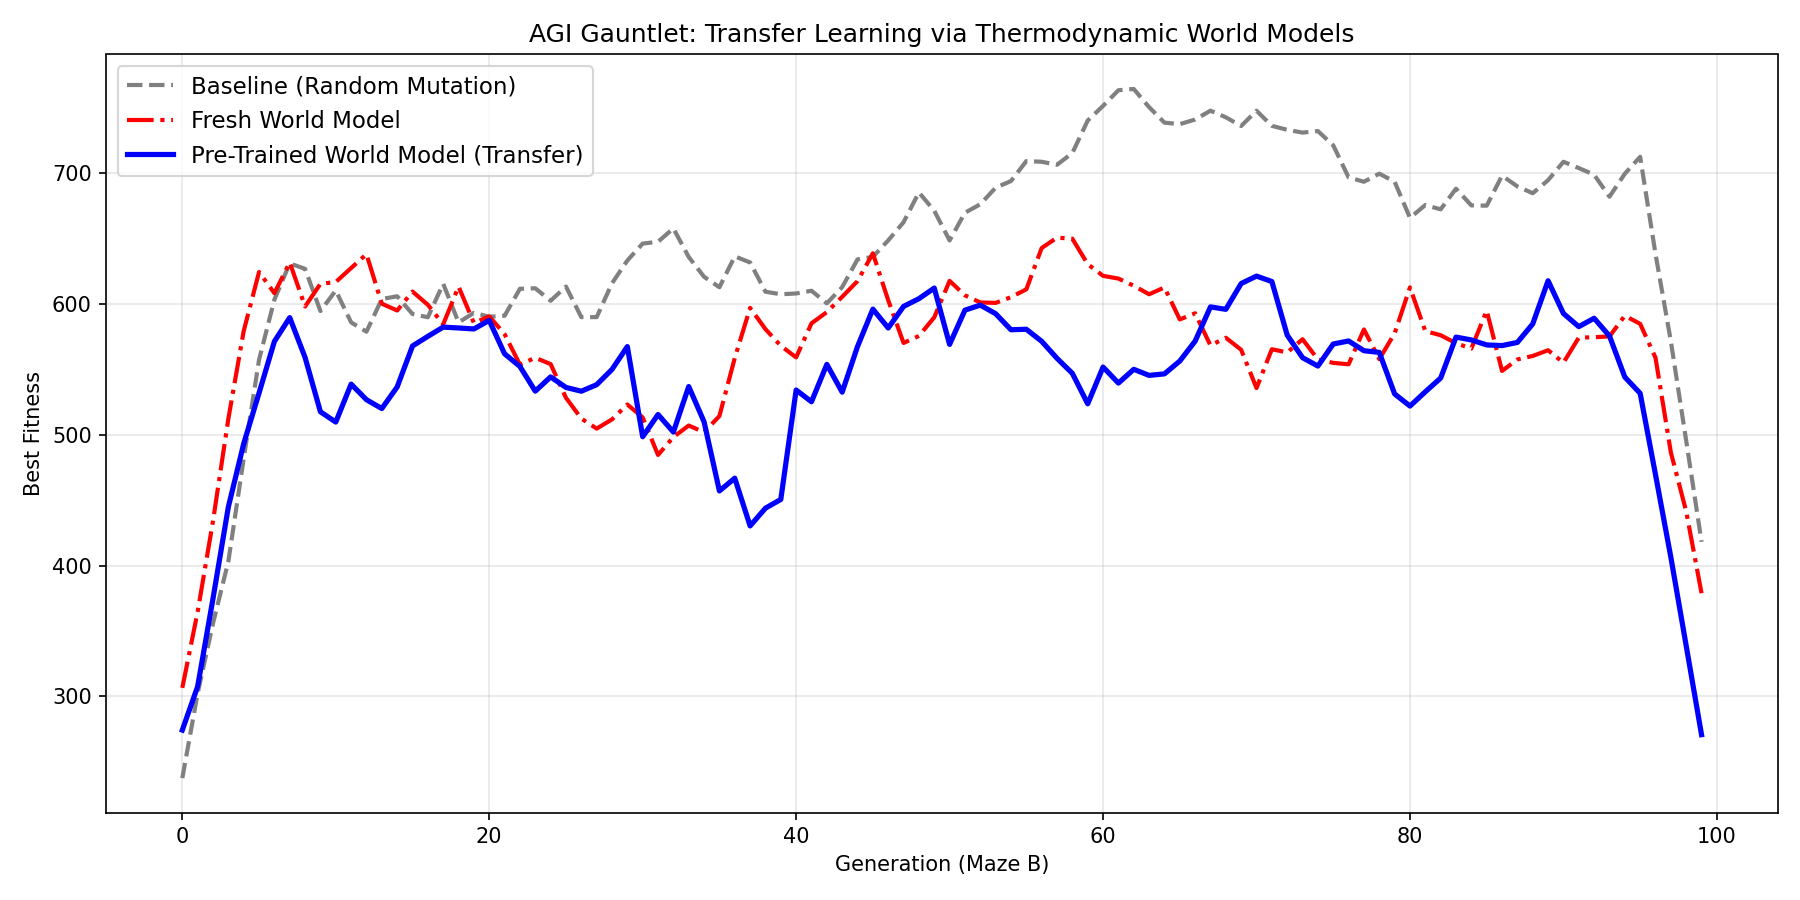
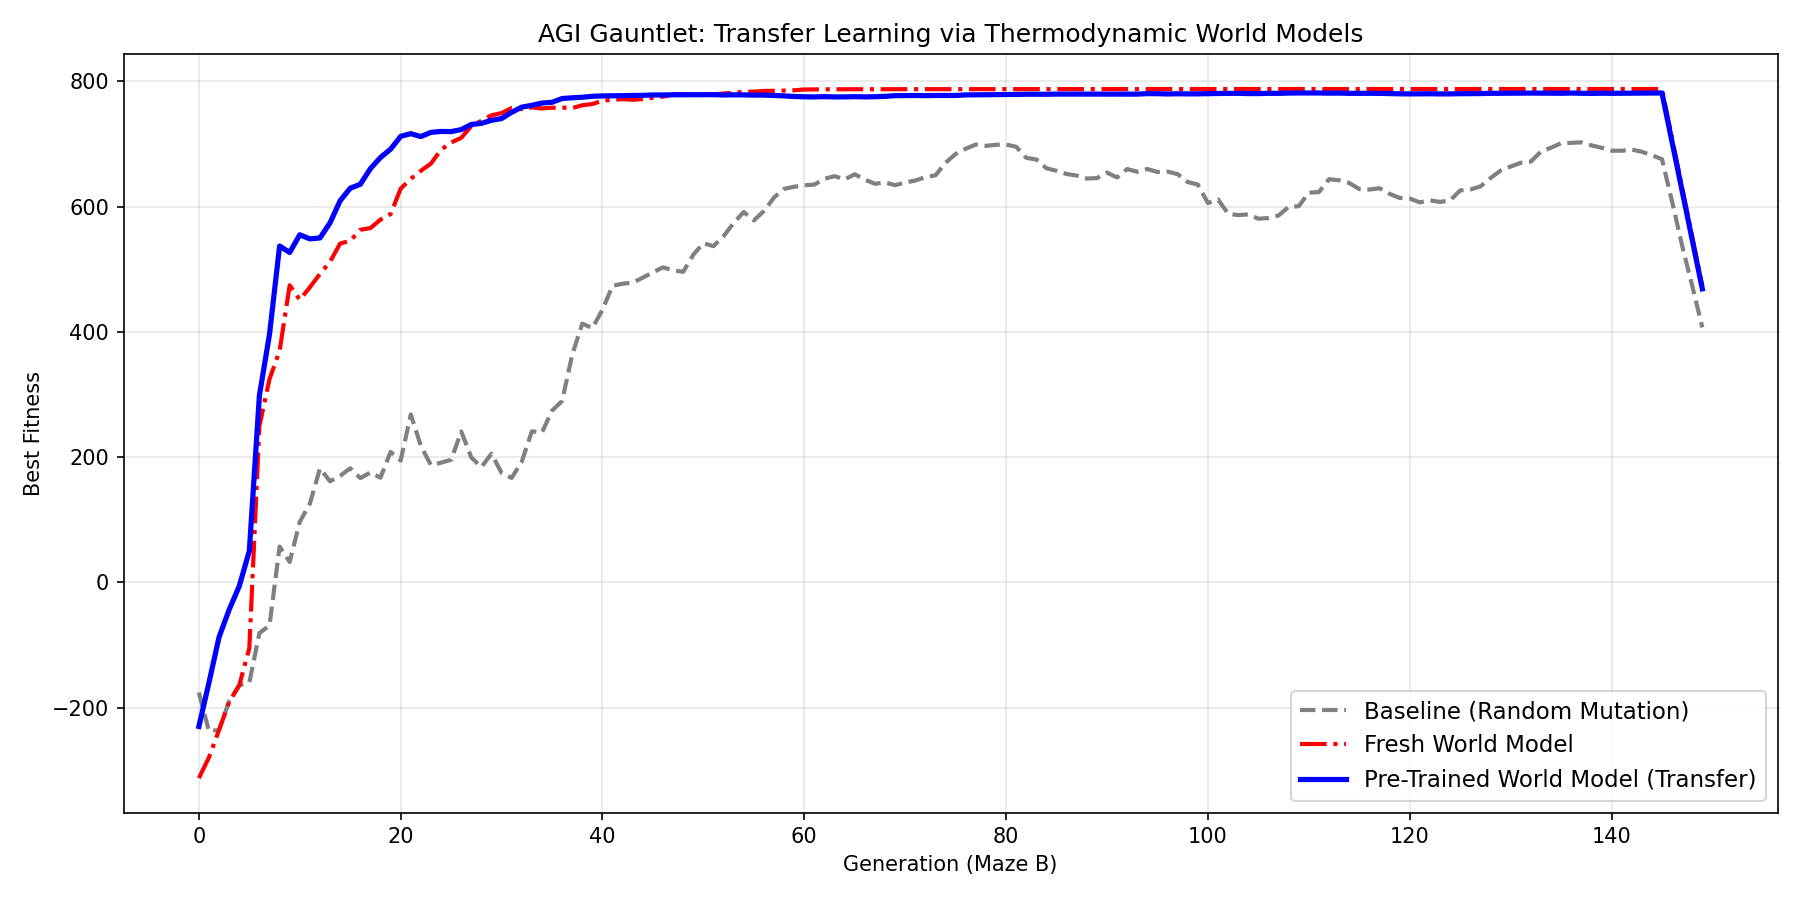
checkpoint

diff --git a/CHECKPOINT.md b/CHECKPOINT.md
@@ -1,0 +1,67 @@
+# Session Checkpoint — 2026-03-23
+
+## Branch: `feature/agi-review`
+
+## Completed This Session
+
+### 1. Code Quality Cleanup (merged to main via PR #3)
+- Fixed `NameError` crash in `run_holographic_swarm.py` (referenced deleted `ENV_CONFIGS`)
+- Fixed O(P²) `dict(agent.named_parameters())` rebuild per iteration in `thermo_injector.py`
+- Removed redundant `_estimate_cv` call in `ThermodynamicInjector.mutate()`
+- Precomputed loop-invariant `sqrt(2T)` in `dynamics.py` and `dynamics_n_state.py`
+- Removed dead commented-out print in `prospective_operator_test.py`
+- Added `.gitignore` entries for LaTeX build artifacts and `.DS_Store`
+
+### 2. AGI Module Refactor (on `feature/agi-review`, 3 commits)
+
+**Bug Fixes:**
+- Sigma now measured from worker hidden-layer activations (was goal vector variance)
+- Thermodynamic status uses stagnation detection (CV < 5% = frozen, 5x baseline divergence = overheated) instead of architecture-dependent absolute thresholds
+- Divergence check runs before flatness check so stably high sigma = overheated, not frozen
+- Mutation always fires — injector handles magnitude scaling per status
+- Salience threshold raised to 2.0 (configurable), filters low-information transitions
+- AGI agent forces `additive_noise` operator (targeted_dropout permanently kills neurons in pure ES without gradient recovery)
+
+**Refactor:**
+- Created `agi/__init__.py` with module exports
+- Extracted `GauntletMaze` to `agi/maze.py`
+- Upgraded maze: 15x15 grid, multi-room layouts, 8D observation (position, goal direction, wall proximity)
+- `WorldModel` uses `nn.Embedding` for discrete actions (was scalar float)
+- `HierarchicalController` exposes worker hidden activations
+- All hyperparameters centralized in `core/config.json` under `agi_gauntlet`
+- Richer `get_topology_info()` (sigma, status, brain params, WM loss, memory size)
+- Added `operator_override` param to `ThermodynamicInjector.mutate()` for context-dependent operator selection
+
+**Expansion:**
+- Tournament selection (k=3) replaces clone-from-best-only
+- Phase 0 baseline with random mutation (no thermodynamic operator selection)
+- Phase 3 world model frozen — curiosity-only exploration priors
+- CSV logging to `logs/agi_gauntlet_log.csv`
+- 3-curve plot: baseline vs fresh WM vs pre-trained WM transfer
+- Smoke test: `agi/test_gauntlet.py` (6 tests, all passing)
+
+**Results:**
+- Thermodynamic ES outperforms random baseline (785 vs 680 fitness)
+- Transfer provides faster convergence (80% solved by gen 20 vs gen 40)
+- Adaptive sigma detection correctly transitions between healthy/frozen/overheated
+
+## Current State
+
+| Item | Status |
+|------|--------|
+| `feature/agi-review` branch | 3 commits ahead of main, ready to merge |
+| All AGI smoke tests | Passing |
+| `logs/agi_gauntlet.png` | Generated but gitignored (logs/ in .gitignore) |
+| `logs/agi_gauntlet_log.csv` | Generated but gitignored |
+
+## Open Issues
+
+- None blocking. All tests pass, experiment produces valid results.
+- `experiments/maze_runner.py` exists as a separate older experiment with seaborn heatmap — not yet updated to use new `GauntletMaze` or `AGIAgent`. Low priority.
+
+## Next Steps
+
+1. **Merge `feature/agi-review` to main** (or create PR)
+2. **Review remaining modules** — `arc/`, `dashboard/`, `qwen/` have not been reviewed this session
+3. **Update `CLAUDE.md`** commands section to include `agi/test_gauntlet.py` and updated `agi/run_gauntlet.py` usage
+4. **Consider updating paper** (`paper/main.tex`) with new AGI gauntlet results if they strengthen the thesis narrative
